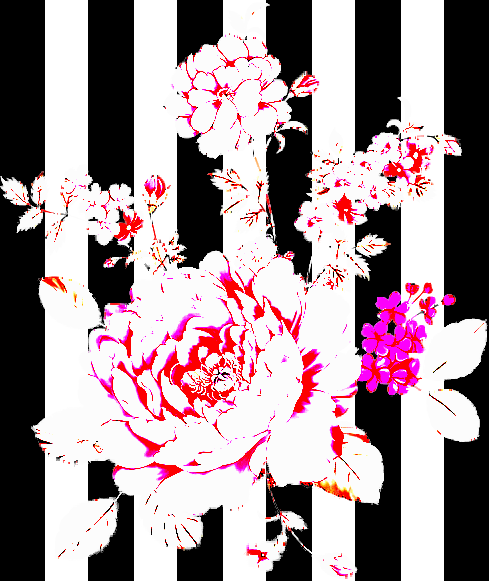
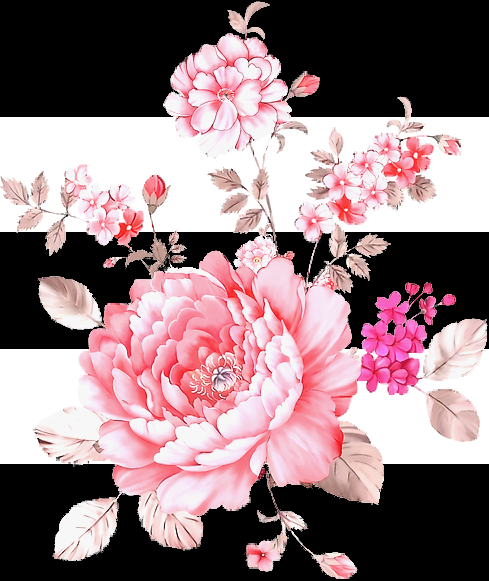
DONE refactor program and add slider reactions

diff --git a/image_editor.py b/image_editor.py
@@ -9,10 +9,8 @@ from PIL import Image, ImageOps, ImageEnhance, ImageDraw
 from PIL.ImageQt import ImageQt			#read and change picture
 import sys
 import pathlib
-import tempfile
 from PySide2.QtWidgets import QApplication, QMainWindow, QFileDialog, QColorDialog		#show on the screen
 from PySide2.QtGui import QPixmap, QColor, QImage, QIcon, QPalette
-from PySide2.QtCore import QFile , Qt
 
 import os
 import subprocess
@@ -21,20 +19,17 @@ from numpy import apply_along_axis
 from mainwindow import Ui_MainWindow
 FILEBROWSER_PATH = os.path.join(os.getenv('WINDIR'), 'explorer.exe')
 
-width = 1000
-height = 800
-
 # pyside2-uic mainwindow.ui -o mainwindow.py
 
-# pixmap - tylko i wylacznie wyswietlanie obrazków
 # qt - czyta i zapisuje obrazki
 # pil - obrobka obrazu
 # self.ui - wszystkie rzeczy związane z plikiem mainwindow
 class MainWindow(QMainWindow):
 	"""
 	TODO
-	Understand which path image is edited
-	Fix jpg and png bug
+	JPG doesnt have to save as a photo idk why
+	connect all functions to one image and use filters every time
+	make these sliders work
 	"""
 	def __init__(self) -> None:
 		'''
@@ -94,9 +89,8 @@ class MainWindow(QMainWindow):
 	def save_temp_file(self):
 		self.filename_temp= 'paintroom_temp_image' + str(self.filetype)
 		try:
-			print(type(self.image), self.image)
 			# if(self.filetype == '.jpg'):
-			# 	self.image.convert("RGBA").save(self.filename_temp)	#to szkodzi jpgom
+			# 	self.image.convert("RGBA").save(self.filename_temp)	#ten convert rgba szkodzi jpgom bo one nie mają kanału alpha, ale bez A też nie działa xd
 			self.image.save(self.filename_temp)
 		except IOError:
 			print("error", self.filename_temp)
@@ -125,24 +119,37 @@ class MainWindow(QMainWindow):
 		self.pixmap = QPixmap.fromImage(img) 
 		self.pixmap = self.scale(self.pixmap)
 
-	def update_image(self, image):
+	def set_all_filters(self):
+		self.curr_image = self.image.copy()
+		# front filters
+		self.set_color()
+		self.set_brightness()
+		self.set_contrast()
+		# back filter
+		self.change_background()
+		self.update_image()
+
+	def update_image(self):
 		if self.filename:
-			self.img_to_pix(image)
+			self.img_to_pix(self.curr_image)
 			self.ui.image_shower.setPixmap(self.pixmap)
 			self.ui.image_shower.repaint()
+
+	def set_default(self):
+		return
 
 	def apply(self):
 		self.image = self.curr_image.copy()
 		if(self.background):
 			self.image = self.merge_images(self.image, self.background)
 		self.save_temp_file()
-		self.update_image(self.image)
+		self.update_image()
 		print("applied!")
 
 	def cancel(self):
 		self.curr_image = self.image.copy()
 		self.save_temp_file()
-		self.update_image(self.curr_image)
+		self.update_image()
 		print("cancelled!")
 
 	def save_as(self):			
@@ -152,7 +159,6 @@ class MainWindow(QMainWindow):
 		'''
 		self.apply()
 		filepath, _ = QFileDialog.getSaveFileName(parent = self, caption='Save me! Just do it!', filter="Image files (*.png *.jpg)")
-		print("AAAAAAAAAAAAAAAAAAAAAAAAAAAAAAAAAAAAAA", filepath)
 		self.image = self.image.save(filepath)
 
 	def add_photo(self):
@@ -162,10 +168,8 @@ class MainWindow(QMainWindow):
 			self.image = Image.open(self.filename)
 			self.curr_image = Image.open(self.filename)
 			self.filetype = pathlib.Path(self.filename).suffix
-			self.pixmap = QPixmap(self.filename)
-			self.pixmap = self.scale(self.pixmap)
 			self.change_background()
-			self.update_image(self.curr_image)
+			self.update_image()
 
 	def setup_transparency(self):
 		"""setup transparent btn and checkboxes"""
@@ -186,7 +190,6 @@ class MainWindow(QMainWindow):
 				self.ui.stripes_btn.setEnabled(True)
 				self.ui.squares_radiobtn.setEnabled(True)
 				self.change_background()
-			self.update_image(self.curr_image)	
 		else:
 			self.ui.transparency_btn.setChecked(True)
 
@@ -221,7 +224,7 @@ class MainWindow(QMainWindow):
 							draw.rectangle( 
 								xy = [ (i*w//squares, j*h//squares), ((i+1)*w//squares, (j+1)*h//squares) ],  
 								fill = color2  ) 		#white
-			self.update_image(self.curr_image)
+		self.update_image()
 
 	def stripes_mode(self):
 		if self.ui.stripes_btn.text() == "||":
@@ -255,66 +258,77 @@ class MainWindow(QMainWindow):
 		self.ui.picked_color2.setStyleSheet("background-color: %s" % color1)
 		self.change_background()
 
+	def set_color(self):
+		max_factor, min_factor = 5, 0.1	
+		factor = self.ui.color_slider.value() * (max_factor-min_factor) / (self.ui.color_slider.maximum()-self.ui.color_slider.minimum()+1)
+		enhancer = ImageEnhance.Color(self.curr_image)
+		self.curr_image = enhancer.enhance(factor)
+
 	def set_color_checkbox(self):
-		''' Greyscale/color on photo with color checkbox
-			return nothing'''
-
-		if not self.filename:
-			return 
-
-		if not self.ui.color_chbox.isChecked():
-			self.curr_image = ImageOps.grayscale(self.image)
-			self.ui.color_slider.setValue(self.ui.color_slider.minimum())
-			self.update_image(self.curr_image)
-		else:
-			self.ui.color_slider.setValue(self.ui.color_slider.maximum())		
-			self.curr_image = self.image.copy()
-			self.update_image(self.image)
+		''' Greyscale/color on photo with color checkbox '''
+		if self.ui.color_chbox.isChecked():
+			# self.curr_image = ImageOps.grayscale(self.image)
+			self.ui.color_slider.setValue(self.ui.color_slider.maximum())
+		elif not self.ui.color_chbox.isChecked():
+			self.ui.color_slider.setValue(self.ui.color_slider.minimum())		
 		self.change_color_spinbox()
+		self.set_all_filters()
+
+	def set_brightness(self):
+		''' Set brightness of an image '''
+		max_factor, min_factor = 5, 0.1		
+		factor = self.ui.light_slider.value() * (max_factor-min_factor) / (self.ui.light_slider.maximum()-self.ui.light_slider.minimum()+1)
+		enhancer = ImageEnhance.Brightness(self.curr_image)
+		self.curr_image = enhancer.enhance(factor)
 
 	def set_brightness_checkbox(self):
-		enhancer = ImageEnhance.Brightness(self.curr_image)
+		''' Brightness on photo with light checkbox '''
 		if self.ui.light_chbox.isChecked():
-			factor = 2
 			self.ui.light_slider.setValue(self.ui.light_slider.maximum())
-		else:
-			factor = 0.5
-			self.ui.light_slider.setValue(self.ui.light_slider.minimum())	
+		elif not self.ui.light_chbox.isChecked():
+			self.ui.light_slider.setValue(self.ui.light_slider.minimum())
+		self.change_light_spinbox()	
+		self.set_all_filters()
+
+	def set_contrast(self):
+		''' Set contrast on image'''
+		max_factor, min_factor = 5, 0.1	
+		factor = self.ui.contrast_slider.value() * (max_factor-min_factor) / (self.ui.contrast_slider.maximum()-self.ui.contrast_slider.minimum()+1)
+		enhancer = ImageEnhance.Contrast(self.curr_image)
 		self.curr_image = enhancer.enhance(factor)
-		self.change_light_spinbox()
-		self.update_image(self.curr_image)
 
 	def set_contrast_checkbox(self):
+		''' Contrast on photo with contrast checkbox '''
 		if self.ui.contrast_chbox.isChecked():
-			enhancer = ImageEnhance.Contrast(self.curr_image)
-			factor = 10
-			self.curr_image = enhancer.enhance(factor)
 			self.ui.contrast_slider.setValue(self.ui.contrast_slider.maximum())
-		else:
-			enhancer = ImageEnhance.Contrast(self.curr_image)
-			factor = 0.1
-			self.curr_image = enhancer.enhance(factor)
+		elif not self.ui.contrast_chbox.isChecked():
 			self.ui.contrast_slider.setValue(self.ui.contrast_slider.minimum())		
 		self.change_contrast_spinbox()
-		self.update_image(self.curr_image)
+		self.set_all_filters()
 
 	def change_color_slider(self):
 		self.ui.color_slider.setValue(self.ui.color_spinbox.value())
+		self.set_all_filters()
 
 	def change_light_slider(self):
 		self.ui.light_slider.setValue(self.ui.light_spinbox.value())
+		self.set_all_filters()
 
 	def change_contrast_slider(self):
 		self.ui.contrast_slider.setValue(self.ui.contrast_spinbox.value())
+		self.set_all_filters()
 
 	def change_color_spinbox(self):
 		self.ui.color_spinbox.setValue(self.ui.color_slider.value())
+		self.set_all_filters()
 
 	def change_light_spinbox(self):
 		self.ui.light_spinbox.setValue(self.ui.light_slider.value())
+		self.set_all_filters()
 
 	def change_contrast_spinbox(self):
 		self.ui.contrast_spinbox.setValue(self.ui.contrast_slider.value())
+		self.set_all_filters()
 
 
 if __name__ == "__main__":

diff --git a/mainwindow.py b/mainwindow.py
@@ -247,18 +247,21 @@ class Ui_MainWindow(object):
         self.color_slider = QSlider(self.groupBox)
         self.color_slider.setObjectName(u"color_slider")
         self.color_slider.setGeometry(QRect(30, 70, 22, 121))
+        self.color_slider.setMinimum(1)
         self.color_slider.setMaximum(100)
-        self.color_slider.setValue(100)
+        self.color_slider.setValue(50)
         self.color_slider.setOrientation(Qt.Vertical)
         self.light_slider = QSlider(self.groupBox)
         self.light_slider.setObjectName(u"light_slider")
         self.light_slider.setGeometry(QRect(80, 70, 22, 121))
+        self.light_slider.setMinimum(1)
         self.light_slider.setMaximum(100)
         self.light_slider.setValue(50)
         self.light_slider.setOrientation(Qt.Vertical)
         self.contrast_slider = QSlider(self.groupBox)
         self.contrast_slider.setObjectName(u"contrast_slider")
         self.contrast_slider.setGeometry(QRect(130, 70, 22, 121))
+        self.contrast_slider.setMinimum(1)
         self.contrast_slider.setMaximum(100)
         self.contrast_slider.setValue(50)
         self.contrast_slider.setOrientation(Qt.Vertical)
@@ -266,7 +269,7 @@ class Ui_MainWindow(object):
         self.color_spinbox.setObjectName(u"color_spinbox")
         self.color_spinbox.setGeometry(QRect(20, 200, 42, 26))
         self.color_spinbox.setMaximum(100)
-        self.color_spinbox.setValue(100)
+        self.color_spinbox.setValue(50)
         self.light_spinbox = QSpinBox(self.groupBox)
         self.light_spinbox.setObjectName(u"light_spinbox")
         self.light_spinbox.setGeometry(QRect(70, 200, 42, 26))
@@ -295,7 +298,7 @@ class Ui_MainWindow(object):
         self.color_chbox.setGeometry(QRect(33, 50, 16, 16))
         self.color_chbox.setLayoutDirection(Qt.LeftToRight)
         self.color_chbox.setAutoFillBackground(False)
-        self.color_chbox.setChecked(True)
+        self.color_chbox.setChecked(False)
         self.light_chbox = QCheckBox(self.groupBox)
         self.light_chbox.setObjectName(u"light_chbox")
         self.light_chbox.setEnabled(True)
@@ -331,7 +334,7 @@ class Ui_MainWindow(object):
 
         self.retranslateUi(MainWindow)
 
-        self.Settings.setCurrentIndex(0)
+        self.Settings.setCurrentIndex(1)
 
 
         QMetaObject.connectSlotsByName(MainWindow)
